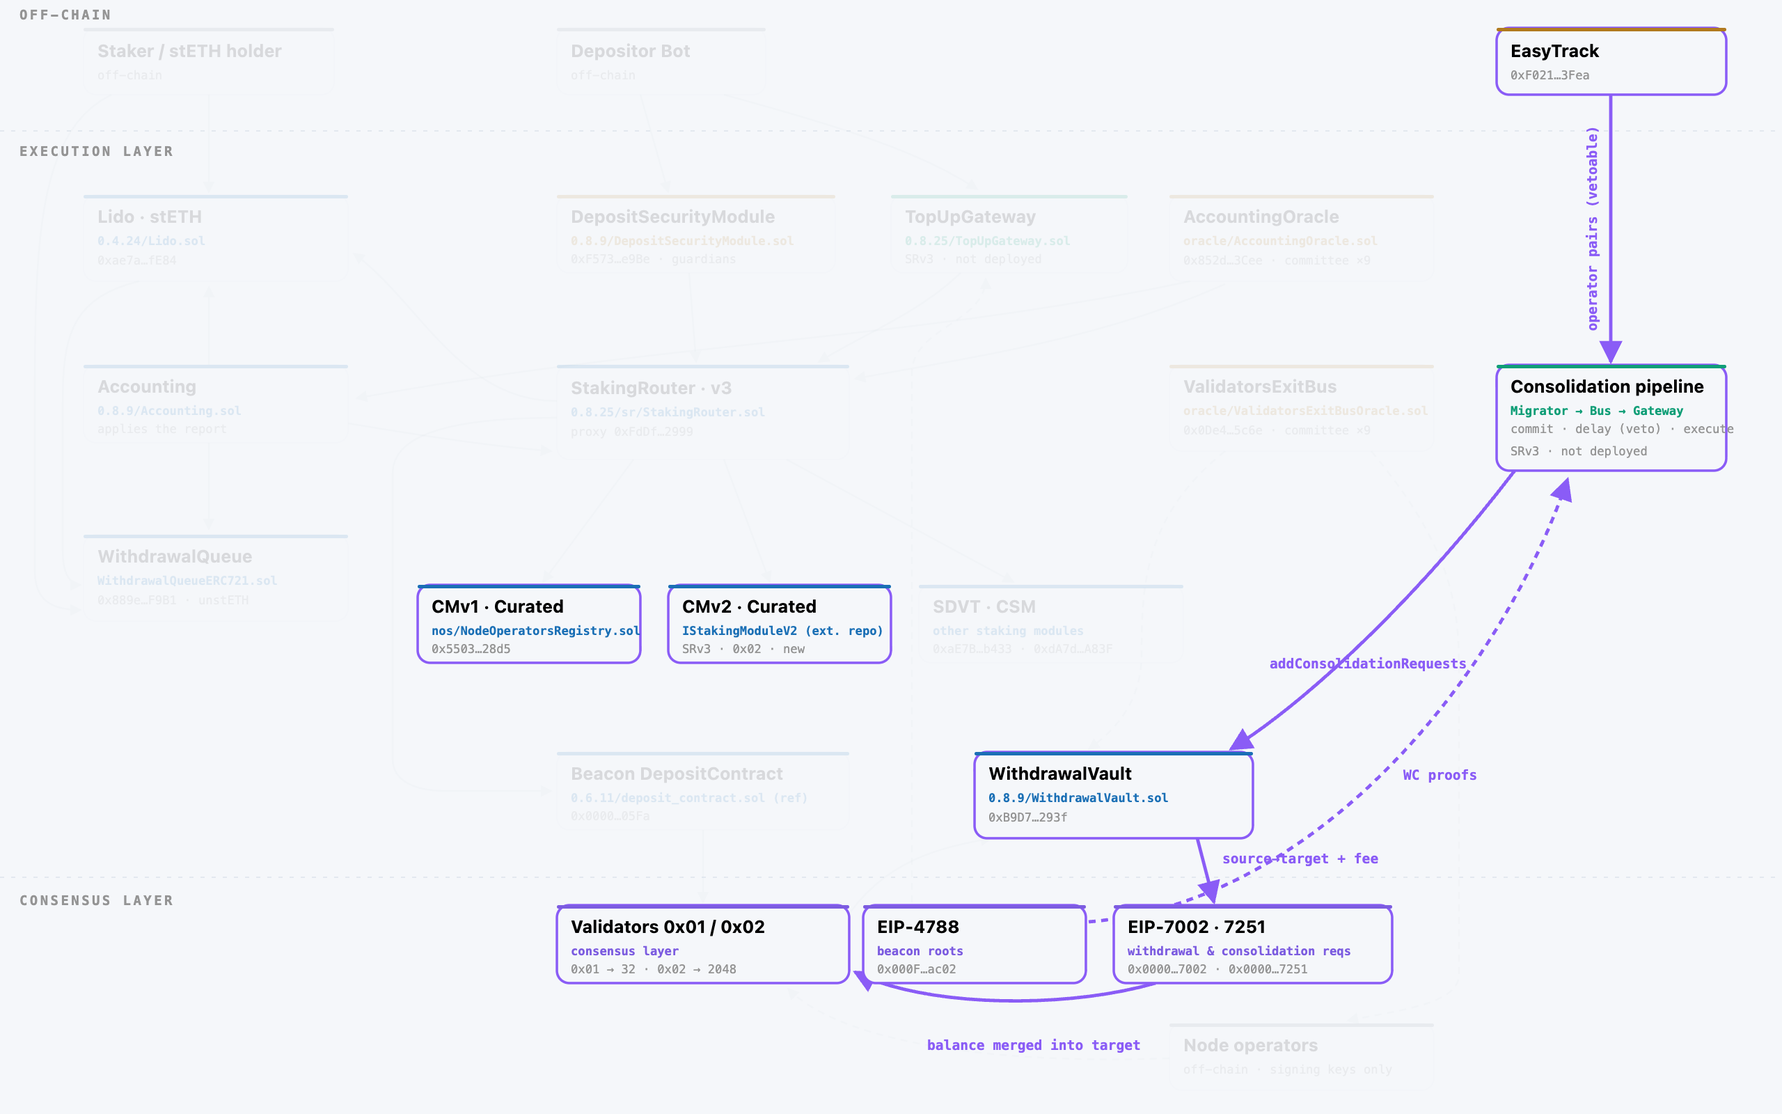
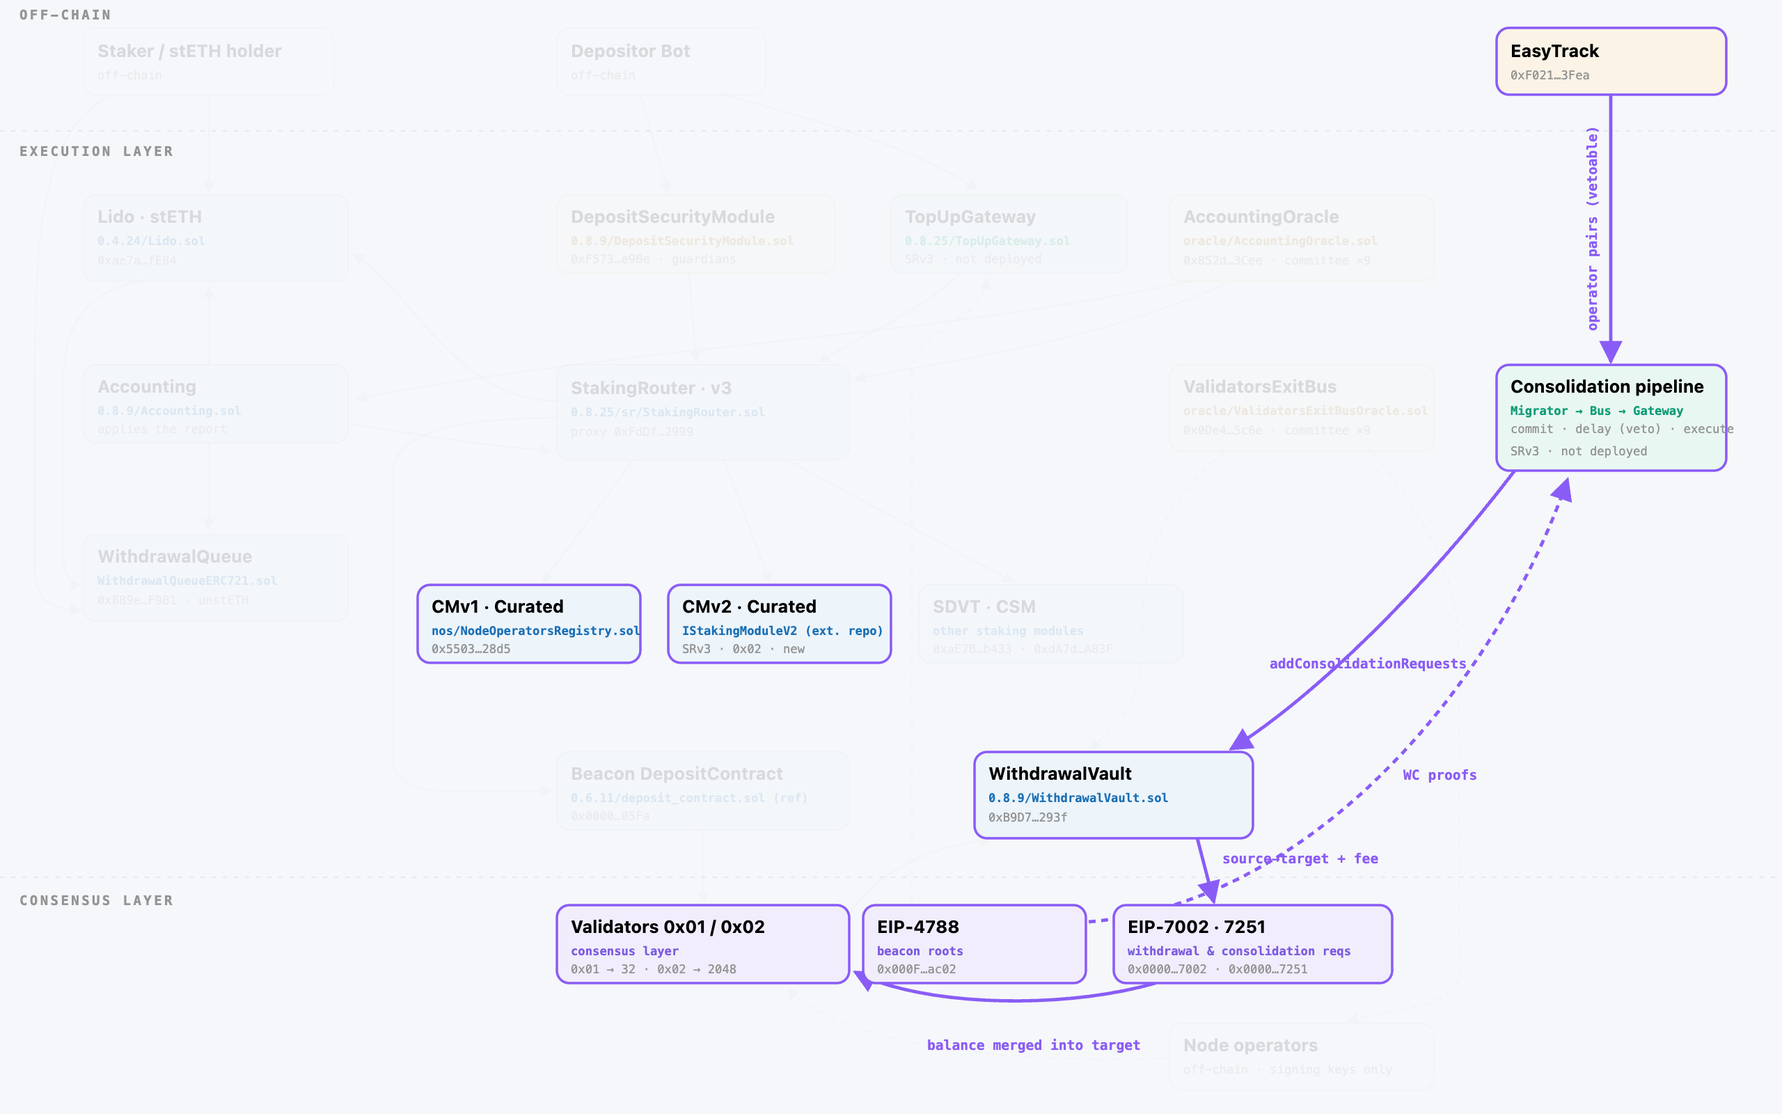
Diagram: Source Serif 4 prose and tinted trust rectangles
Prose (intro, flow captions, card descriptions) set in Source Serif 4 as on
lfglabs.dev; trust type now shown by tinted node/card backgrounds instead of
color bars; exports regenerated

diff --git a/diagram/index.html b/diagram/index.html
@@ -6,6 +6,7 @@
 <link rel="preconnect" href="https://fonts.googleapis.com">
 <link rel="preconnect" href="https://fonts.gstatic.com" crossorigin>
 <link href="https://fonts.googleapis.com/css2?family=Plus+Jakarta+Sans:wght@400;500;600;700;800&display=swap" rel="stylesheet">
+<link href="https://fonts.googleapis.com/css2?family=Source+Serif+4:ital,opsz,wght@0,8..60,400;0,8..60,500;0,8..60,600;1,8..60,400&display=swap" rel="stylesheet">
 <title>Lido Architecture: Components & Flows</title>
 </head>
 <body style="margin:0">
@@ -15,9 +16,14 @@
     --line:#e3e8ef; --line2:#eef1f6; --edge:#c3ccd7;
     --accent:#2dd4bf; --accent-ink:#0d9488;
     --el:#1a6fb5; --cl:#7c5ce0; --com:#b17a1e; --bot:#8b93a1; --proof:#0f9e77;
+    --el-bg:#edf4fa; --el-bd:#c2d8ea; --cl-bg:#f1edfc; --cl-bd:#d6cbf2;
+    --com-bg:#faf3e6; --com-bd:#e6d3ae; --bot-bg:#f1f3f6; --bot-bd:#d5dae1;
+    --proof-bg:#e9f7f2; --proof-bd:#b8e0d2;
     --cf1:#1a75c0; --cf2:#0d9488; --cf3:#67921a; --cf4:#bd7c17; --cf5:#d0523a; --cf6:#8a5cf6; --cf7:#b44487;
     --mono:ui-monospace,'SF Mono',Menlo,Consolas,monospace;
     --sans:'Plus Jakarta Sans',system-ui,-apple-system,'Segoe UI',Roboto,sans-serif;
+    --article:'Source Serif 4',Georgia,'Times New Roman',serif;
+    --article-ink:#1a1a1a;
   }
 
   body{
@@ -32,7 +38,7 @@
           letter-spacing:.14em;text-transform:uppercase;color:var(--accent-ink);
           background:rgba(45,212,191,.12);border-radius:999px;padding:3px 11px;margin-bottom:10px}
   header h1{font-size:clamp(1.5rem,3.4vw,2rem);font-weight:800;letter-spacing:-.03em;color:var(--heading);text-wrap:balance}
-  header p{color:var(--ink);max-width:76ch;margin-top:7px;font-size:.88rem}
+  header p{font-family:var(--article);letter-spacing:normal;color:var(--article-ink);max-width:74ch;margin-top:8px;font-size:.94rem;line-height:1.6}
   header p b{color:var(--heading);font-weight:700}
 
   .legend{display:flex;flex-wrap:wrap;gap:6px;margin-top:12px;font-family:var(--mono);font-size:9.5px}
@@ -56,8 +62,8 @@
   .reset{background:none;border:1.5px dashed var(--line);border-radius:999px;color:var(--soft);
          font:inherit;font-size:.75rem;cursor:pointer;padding:6px 13px}
   .reset:hover{color:var(--heading);border-color:var(--accent)}
-  .fcap{min-height:2.6em;font-size:.78rem;color:var(--soft);margin-bottom:10px;max-width:90ch}
-  .fcap b{font-weight:700}
+  .fcap{font-family:var(--article);letter-spacing:normal;min-height:2.6em;font-size:.84rem;color:var(--ink);margin-bottom:10px;max-width:88ch;line-height:1.55}
+  .fcap b{font-family:var(--sans);font-weight:700;font-size:.92em;letter-spacing:-0.01em}
   @media (prefers-reduced-motion: reduce){ .pill{transition:none} .edge path,.node rect,.node text{transition:none!important} }
 
   /* diagram */
@@ -69,14 +75,17 @@
   .bandlbl{font:700 9.5px var(--mono);letter-spacing:.18em;fill:var(--soft)}
 
   .node rect.box{fill:var(--card);stroke:var(--line);transition:opacity .15s}
-  .node rect.top,.node text{transition:opacity .15s}
+  .node.el rect.box{fill:var(--el-bg);stroke:var(--el-bd)}
+  .node.com rect.box{fill:var(--com-bg);stroke:var(--com-bd)}
+  .node.proof rect.box{fill:var(--proof-bg);stroke:var(--proof-bd)}
+  .node.bot rect.box{fill:var(--bot-bg);stroke:var(--bot-bd)}
+  .node.cl rect.box{fill:var(--cl-bg);stroke:var(--cl-bd)}
+  .node text{transition:opacity .15s}
   .node .nm{font:700 12.5px var(--sans);fill:var(--heading)}
   .node .fl{font:600 8.6px var(--mono)}
   .node .ad{font:500 8.6px var(--mono);fill:var(--soft)}
   .node.el .fl{fill:var(--el)} .node.com .fl{fill:var(--com)} .node.proof .fl{fill:var(--proof)}
   .node.bot .fl{fill:var(--bot)} .node.cl .fl{fill:var(--cl)}
-  .node.el rect.top{fill:var(--el)} .node.com rect.top{fill:var(--com)} .node.proof rect.top{fill:var(--proof)}
-  .node.bot rect.top{fill:var(--bot)} .node.cl rect.top{fill:var(--cl)}
   .node.dim{opacity:.12}
   .node.on rect.box{stroke:var(--hl,var(--line));stroke-width:1.8}
 
@@ -90,16 +99,19 @@
   /* component notes */
   .notes h2{font-size:.98rem;font-weight:700;letter-spacing:-.01em;color:var(--heading);
      padding-bottom:6px;border-bottom:1px solid var(--line);margin:28px 0 10px}
-  .notes h2 b{font-weight:500;color:var(--soft);font-size:.86em}
+  .notes h2 b{font-family:var(--article);font-style:italic;font-weight:400;color:var(--soft);font-size:.9em;letter-spacing:normal}
   .band{display:grid;grid-template-columns:repeat(auto-fill,minmax(230px,1fr));gap:8px}
-  .c{background:var(--card);border:1px solid var(--line);border-left:3px solid var(--tc,var(--line));
+  .c{background:var(--card);border:1px solid var(--line);
      border-radius:10px;padding:10px 12px;display:flex;flex-direction:column;gap:2px}
-  .c.el{--tc:var(--el)} .c.cl{--tc:var(--cl)} .c.com{--tc:var(--com)}
-  .c.bot{--tc:var(--bot)} .c.proof{--tc:var(--proof)}
+  .c.el{--tc:var(--el);background:var(--el-bg);border-color:var(--el-bd)}
+  .c.cl{--tc:var(--cl);background:var(--cl-bg);border-color:var(--cl-bd)}
+  .c.com{--tc:var(--com);background:var(--com-bg);border-color:var(--com-bd)}
+  .c.bot{--tc:var(--bot);background:var(--bot-bg);border-color:var(--bot-bd)}
+  .c.proof{--tc:var(--proof);background:var(--proof-bg);border-color:var(--proof-bd)}
   .c .n{font-weight:700;font-size:.83rem;color:var(--heading);letter-spacing:-.01em}
   .c .f{font-family:var(--mono);font-size:.63rem;color:var(--tc,var(--soft));word-break:break-all;letter-spacing:0}
   .c .a{font-family:var(--mono);font-size:.63rem;color:var(--soft);letter-spacing:0}
-  .c .r{font-size:.72rem;color:var(--ink);margin-top:2px}
+  .c .r{font-family:var(--article);letter-spacing:normal;font-size:.76rem;color:var(--article-ink);margin-top:2px;line-height:1.5}
 
   footer{margin-top:22px;padding-top:12px;border-top:1px solid var(--line);
          font-family:var(--mono);font-size:.67rem;color:var(--soft);line-height:1.9;letter-spacing:0}
@@ -205,54 +217,54 @@
 
   <!-- ================= nodes ================= -->
   <g id="nodes">
-  <g class="node bot" data-flows="f1 f4"><rect class="box" x="60" y="20" width="180" height="48" rx="9"/><rect class="top" x="60" y="20" width="180" height="2.5" rx="1.2"/>
+  <g class="node bot" data-flows="f1 f4"><rect class="box" x="60" y="20" width="180" height="48" rx="9"/>
     <text class="nm" x="70" y="41">Staker / stETH holder</text><text class="ad" x="70" y="57">off-chain</text></g>
-  <g class="node bot" data-flows="f2 f3"><rect class="box" x="400" y="20" width="150" height="48" rx="9"/><rect class="top" x="400" y="20" width="150" height="2.5" rx="1.2"/>
+  <g class="node bot" data-flows="f2 f3"><rect class="box" x="400" y="20" width="150" height="48" rx="9"/>
     <text class="nm" x="410" y="41">Depositor Bot</text><text class="ad" x="410" y="57">off-chain</text></g>
-  <g class="node com" data-flows="f6"><title>0xF0211b7660680B49De1A7E9f25C65660F0a13Fea: vetoable DAO motions</title><rect class="box" x="1075" y="20" width="165" height="48" rx="9"/><rect class="top" x="1075" y="20" width="165" height="2.5" rx="1.2"/>
+  <g class="node com" data-flows="f6"><title>0xF0211b7660680B49De1A7E9f25C65660F0a13Fea: vetoable DAO motions</title><rect class="box" x="1075" y="20" width="165" height="48" rx="9"/>
     <text class="nm" x="1085" y="41">EasyTrack</text><text class="ad" x="1085" y="57">0xF021…3Fea</text></g>
 
-  <g class="node el" data-flows="f1 f2 f3 f4 f7"><title>0xae7ab96520DE3A18E5e111B5EaAb095312D7fE84: stETH token + ETH buffer</title><rect class="box" x="60" y="140" width="190" height="62" rx="9"/><rect class="top" x="60" y="140" width="190" height="2.5" rx="1.2"/>
+  <g class="node el" data-flows="f1 f2 f3 f4 f7"><title>0xae7ab96520DE3A18E5e111B5EaAb095312D7fE84: stETH token + ETH buffer</title><rect class="box" x="60" y="140" width="190" height="62" rx="9"/>
     <text class="nm" x="70" y="160">Lido · stETH</text><text class="fl" x="70" y="176">0.4.24/Lido.sol</text><text class="ad" x="70" y="190">0xae7a…fE84</text></g>
-  <g class="node el" data-flows="f4 f5 f7"><title>Applies the oracle report: drains vaults, finalizes, rebases, mints fees</title><rect class="box" x="60" y="262" width="190" height="56" rx="9"/><rect class="top" x="60" y="262" width="190" height="2.5" rx="1.2"/>
+  <g class="node el" data-flows="f4 f5 f7"><title>Applies the oracle report: drains vaults, finalizes, rebases, mints fees</title><rect class="box" x="60" y="262" width="190" height="56" rx="9"/>
     <text class="nm" x="70" y="282">Accounting</text><text class="fl" x="70" y="298">0.8.9/Accounting.sol</text><text class="ad" x="70" y="311">applies the report</text></g>
-  <g class="node el" data-flows="f4"><title>0x889edC2eDab5f40e902b864aD4d7AdE8E412F9B1: FIFO queue + escrow, unstETH NFT</title><rect class="box" x="60" y="384" width="190" height="62" rx="9"/><rect class="top" x="60" y="384" width="190" height="2.5" rx="1.2"/>
+  <g class="node el" data-flows="f4"><title>0x889edC2eDab5f40e902b864aD4d7AdE8E412F9B1: FIFO queue + escrow, unstETH NFT</title><rect class="box" x="60" y="384" width="190" height="62" rx="9"/>
     <text class="nm" x="70" y="404">WithdrawalQueue</text><text class="fl" x="70" y="420">WithdrawalQueueERC721.sol</text><text class="ad" x="70" y="434">0x889e…F9B1 · unstETH</text></g>
 
-  <g class="node com" data-flows="f2"><title>0xF573E9E3de1f86B085417ab294f56E7920B4e9Be: guardian committee, anti front-run</title><rect class="box" x="400" y="140" width="200" height="56" rx="9"/><rect class="top" x="400" y="140" width="200" height="2.5" rx="1.2"/>
+  <g class="node com" data-flows="f2"><title>0xF573E9E3de1f86B085417ab294f56E7920B4e9Be: guardian committee, anti front-run</title><rect class="box" x="400" y="140" width="200" height="56" rx="9"/>
     <text class="nm" x="410" y="160">DepositSecurityModule</text><text class="fl" x="410" y="176">0.8.9/DepositSecurityModule.sol</text><text class="ad" x="410" y="189">0xF573…e9Be · guardians</text></g>
-  <g class="node proof" data-flows="f3"><title>SRv3, not deployed: verifies 0x02 top-up targets against EIP-4788</title><rect class="box" x="640" y="140" width="170" height="56" rx="9"/><rect class="top" x="640" y="140" width="170" height="2.5" rx="1.2"/>
+  <g class="node proof" data-flows="f3"><title>SRv3, not deployed: verifies 0x02 top-up targets against EIP-4788</title><rect class="box" x="640" y="140" width="170" height="56" rx="9"/>
     <text class="nm" x="650" y="160">TopUpGateway</text><text class="fl" x="650" y="176">0.8.25/TopUpGateway.sol</text><text class="ad" x="650" y="189">SRv3 · not deployed</text></g>
-  <g class="node el" data-flows="f2 f3 f7"><title>proxy 0xFdDf38947aFB03C621C71b06C9C70bce73f12999: allocates stake, pulls ETH, distributes fees</title><rect class="box" x="400" y="262" width="210" height="68" rx="9"/><rect class="top" x="400" y="262" width="210" height="2.5" rx="1.2"/>
+  <g class="node el" data-flows="f2 f3 f7"><title>proxy 0xFdDf38947aFB03C621C71b06C9C70bce73f12999: allocates stake, pulls ETH, distributes fees</title><rect class="box" x="400" y="262" width="210" height="68" rx="9"/>
     <text class="nm" x="410" y="283">StakingRouter · v3</text><text class="fl" x="410" y="299">0.8.25/sr/StakingRouter.sol</text><text class="ad" x="410" y="313">proxy 0xFdDf…2999</text></g>
 
-  <g class="node el" data-flows="f2 f6 f7"><title>0x55032650b14df07b85bF18A3a3eC8E0Af2e028d5: 0x01 keys, consolidation source</title><rect class="box" x="300" y="420" width="160" height="56" rx="9"/><rect class="top" x="300" y="420" width="160" height="2.5" rx="1.2"/>
+  <g class="node el" data-flows="f2 f6 f7"><title>0x55032650b14df07b85bF18A3a3eC8E0Af2e028d5: 0x01 keys, consolidation source</title><rect class="box" x="300" y="420" width="160" height="56" rx="9"/>
     <text class="nm" x="310" y="440">CMv1 · Curated</text><text class="fl" x="310" y="456">nos/NodeOperatorsRegistry.sol</text><text class="ad" x="310" y="469">0x5503…28d5</text></g>
-  <g class="node el" data-flows="f3 f6 f7"><title>IStakingModuleV2 implementation lives outside the core repo; consolidation target</title><rect class="box" x="480" y="420" width="160" height="56" rx="9"/><rect class="top" x="480" y="420" width="160" height="2.5" rx="1.2"/>
+  <g class="node el" data-flows="f3 f6 f7"><title>IStakingModuleV2 implementation lives outside the core repo; consolidation target</title><rect class="box" x="480" y="420" width="160" height="56" rx="9"/>
     <text class="nm" x="490" y="440">CMv2 · Curated</text><text class="fl" x="490" y="456">IStakingModuleV2 (ext. repo)</text><text class="ad" x="490" y="469">SRv3 · 0x02 · new</text></g>
-  <g class="node el" data-flows="f2 f7"><title>SDVT 0xaE7B191A31f627b4eB1d4DaC64eaB9976995b433 (Obol/SSV clusters) · CSM 0xdA7dE2ECdDfccC6c3AF10108Db212ACBBf9EA83F (bonded permissionless)</title><rect class="box" x="660" y="420" width="190" height="56" rx="9"/><rect class="top" x="660" y="420" width="190" height="2.5" rx="1.2"/>
+  <g class="node el" data-flows="f2 f7"><title>SDVT 0xaE7B191A31f627b4eB1d4DaC64eaB9976995b433 (Obol/SSV clusters) · CSM 0xdA7dE2ECdDfccC6c3AF10108Db212ACBBf9EA83F (bonded permissionless)</title><rect class="box" x="660" y="420" width="190" height="56" rx="9"/>
     <text class="nm" x="670" y="440">SDVT · CSM</text><text class="fl" x="670" y="456">other staking modules</text><text class="ad" x="670" y="469">0xaE7B…b433 · 0xdA7d…A83F</text></g>
 
-  <g class="node el" data-flows="f2 f3"><title>0x00000000219ab540356cBB839Cbe05303d7705Fa: one-way; only the first deposit sets WC</title><rect class="box" x="400" y="540" width="210" height="56" rx="9"/><rect class="top" x="400" y="540" width="210" height="2.5" rx="1.2"/>
+  <g class="node el" data-flows="f2 f3"><title>0x00000000219ab540356cBB839Cbe05303d7705Fa: one-way; only the first deposit sets WC</title><rect class="box" x="400" y="540" width="210" height="56" rx="9"/>
     <text class="nm" x="410" y="560">Beacon DepositContract</text><text class="fl" x="410" y="576">0.6.11/deposit_contract.sol (ref)</text><text class="ad" x="410" y="589">0x0000…05Fa</text></g>
-  <g class="node el" data-flows="f5 f6"><title>0xB9D7934878B5FB9610B3fE8A5e441e8fad7E293f: all Lido validator WC point here</title><rect class="box" x="700" y="540" width="200" height="62" rx="9"/><rect class="top" x="700" y="540" width="200" height="2.5" rx="1.2"/>
+  <g class="node el" data-flows="f5 f6"><title>0xB9D7934878B5FB9610B3fE8A5e441e8fad7E293f: all Lido validator WC point here</title><rect class="box" x="700" y="540" width="200" height="62" rx="9"/>
     <text class="nm" x="710" y="560">WithdrawalVault</text><text class="fl" x="710" y="576">0.8.9/WithdrawalVault.sol</text><text class="ad" x="710" y="590">0xB9D7…293f</text></g>
 
-  <g class="node com" data-flows="f4 f5 f7"><title>0x852deD011285fe67063a08005c71a85690503Cee: daily report; SRv3 adds per-module CL balances</title><rect class="box" x="840" y="140" width="190" height="62" rx="9"/><rect class="top" x="840" y="140" width="190" height="2.5" rx="1.2"/>
+  <g class="node com" data-flows="f4 f5 f7"><title>0x852deD011285fe67063a08005c71a85690503Cee: daily report; SRv3 adds per-module CL balances</title><rect class="box" x="840" y="140" width="190" height="62" rx="9"/>
     <text class="nm" x="850" y="160">AccountingOracle</text><text class="fl" x="850" y="176">oracle/AccountingOracle.sol</text><text class="ad" x="850" y="190">0x852d…3Cee · committee ×9</text></g>
-  <g class="node com" data-flows="f5"><title>0x0De4Ea0184c2ad0BacA7183356Aea5B8d5Bf5c6e: exit requests, ETH-denominated bounds</title><rect class="box" x="840" y="262" width="190" height="62" rx="9"/><rect class="top" x="840" y="262" width="190" height="2.5" rx="1.2"/>
+  <g class="node com" data-flows="f5"><title>0x0De4Ea0184c2ad0BacA7183356Aea5B8d5Bf5c6e: exit requests, ETH-denominated bounds</title><rect class="box" x="840" y="262" width="190" height="62" rx="9"/>
     <text class="nm" x="850" y="282">ValidatorsExitBus</text><text class="fl" x="850" y="298">oracle/ValidatorsExitBusOracle.sol</text><text class="ad" x="850" y="312">0x0De4…5c6e · committee ×9</text></g>
-  <g class="node bot" data-flows="f5"><title>Hold signing keys only; principal is out of reach</title><rect class="box" x="840" y="735" width="190" height="48" rx="9"/><rect class="top" x="840" y="735" width="190" height="2.5" rx="1.2"/>
+  <g class="node bot" data-flows="f5"><title>Hold signing keys only; principal is out of reach</title><rect class="box" x="840" y="735" width="190" height="48" rx="9"/>
     <text class="nm" x="850" y="755">Node operators</text><text class="ad" x="850" y="771">off-chain · signing keys only</text></g>
 
-  <g class="node proof" data-flows="f6"><title>SRv3, not deployed. Migrator validates EasyTrack pairs; Bus enforces the delay (removeBatches = guardian veto); Gateway verifies target WC proofs against EIP-4788</title><rect class="box" x="1075" y="262" width="165" height="76" rx="9"/><rect class="top" x="1075" y="262" width="165" height="2.5" rx="1.2"/>
+  <g class="node proof" data-flows="f6"><title>SRv3, not deployed. Migrator validates EasyTrack pairs; Bus enforces the delay (removeBatches = guardian veto); Gateway verifies target WC proofs against EIP-4788</title><rect class="box" x="1075" y="262" width="165" height="76" rx="9"/>
     <text class="nm" x="1085" y="282">Consolidation pipeline</text><text class="fl" x="1085" y="298">Migrator → Bus → Gateway</text><text class="ad" x="1085" y="311">commit · delay (veto) · execute</text><text class="ad" x="1085" y="327">SRv3 · not deployed</text></g>
 
-  <g class="node cl" data-flows="f2 f3 f5 f6"><title>0x01 capped at 32 ETH (excess skimmed); 0x02 compounds to 2048; WC write-once</title><rect class="box" x="400" y="650" width="210" height="56" rx="9"/><rect class="top" x="400" y="650" width="210" height="2.5" rx="1.2"/>
+  <g class="node cl" data-flows="f2 f3 f5 f6"><title>0x01 capped at 32 ETH (excess skimmed); 0x02 compounds to 2048; WC write-once</title><rect class="box" x="400" y="650" width="210" height="56" rx="9"/>
     <text class="nm" x="410" y="670">Validators 0x01 / 0x02</text><text class="fl" x="410" y="686">consensus layer</text><text class="ad" x="410" y="699">0x01 → 32 · 0x02 → 2048</text></g>
-  <g class="node cl" data-flows="f3 f6"><title>0x000F3df6D732807Ef1319fB7B8bB8522d0Beac02: beacon root readable from EL, ~27 h ring</title><rect class="box" x="620" y="650" width="160" height="56" rx="9"/><rect class="top" x="620" y="650" width="160" height="2.5" rx="1.2"/>
+  <g class="node cl" data-flows="f3 f6"><title>0x000F3df6D732807Ef1319fB7B8bB8522d0Beac02: beacon root readable from EL, ~27 h ring</title><rect class="box" x="620" y="650" width="160" height="56" rx="9"/>
     <text class="nm" x="630" y="670">EIP-4788</text><text class="fl" x="630" y="686">beacon roots</text><text class="ad" x="630" y="699">0x000F…ac02</text></g>
-  <g class="node cl" data-flows="f5 f6"><title>EIP-7002 0x00000961Ef480Eb55e80D19ad83579A64c007002 (exits &amp; partial withdrawals) · EIP-7251 0x0000BBdDc7CE488642fb579F8B00f3a590007251 (source→target merge); both triggered from the withdrawal address</title><rect class="box" x="800" y="650" width="200" height="56" rx="9"/><rect class="top" x="800" y="650" width="200" height="2.5" rx="1.2"/>
+  <g class="node cl" data-flows="f5 f6"><title>EIP-7002 0x00000961Ef480Eb55e80D19ad83579A64c007002 (exits &amp; partial withdrawals) · EIP-7251 0x0000BBdDc7CE488642fb579F8B00f3a590007251 (source→target merge); both triggered from the withdrawal address</title><rect class="box" x="800" y="650" width="200" height="56" rx="9"/>
     <text class="nm" x="810" y="670">EIP-7002 · 7251</text><text class="fl" x="810" y="686">withdrawal &amp; consolidation reqs</text><text class="ad" x="810" y="699">0x0000…7002 · 0x0000…7251</text></g>
   </g>
 </svg>
@@ -375,13 +387,14 @@
     '.sep{stroke:var(--line);stroke-dasharray:3 5}',
     '.bandlbl{font:700 9.5px var(--mono);letter-spacing:.18em;fill:var(--soft)}',
     '.node rect.box{fill:var(--card);stroke:var(--line)}',
+    '.node.el rect.box{fill:var(--el-bg);stroke:var(--el-bd)}.node.com rect.box{fill:var(--com-bg);stroke:var(--com-bd)}',
+    '.node.proof rect.box{fill:var(--proof-bg);stroke:var(--proof-bd)}.node.bot rect.box{fill:var(--bot-bg);stroke:var(--bot-bd)}',
+    '.node.cl rect.box{fill:var(--cl-bg);stroke:var(--cl-bd)}',
     '.node .nm{font:700 12.5px "Plus Jakarta Sans","Segoe UI",system-ui,sans-serif;fill:var(--heading)}',
     '.node .fl{font:600 8.6px var(--mono)}',
     '.node .ad{font:500 8.6px var(--mono);fill:var(--soft)}',
     '.node.el .fl{fill:var(--el)}.node.com .fl{fill:var(--com)}.node.proof .fl{fill:var(--proof)}',
     '.node.bot .fl{fill:var(--bot)}.node.cl .fl{fill:var(--cl)}',
-    '.node.el rect.top{fill:var(--el)}.node.com rect.top{fill:var(--com)}.node.proof rect.top{fill:var(--proof)}',
-    '.node.bot rect.top{fill:var(--bot)}.node.cl rect.top{fill:var(--cl)}',
     '.node.dim{opacity:.12}',
     '.node.on rect.box{stroke:var(--hl,var(--line));stroke-width:1.8}',
     '.edge path{fill:none;stroke:var(--edge);stroke-width:1.2}',
@@ -396,7 +409,7 @@
     var src = document.querySelector('.canvas svg');
     var clone = src.cloneNode(true);
     var cs = getComputedStyle(document.documentElement);
-    var names = ['--card','--ink','--heading','--soft','--line','--line2','--edge','--el','--cl','--com','--bot','--proof',
+    var names = ['--card','--ink','--heading','--soft','--line','--line2','--edge','--el','--cl','--com','--bot','--proof','--el-bg','--el-bd','--cl-bg','--cl-bd','--com-bg','--com-bd','--bot-bg','--bot-bd','--proof-bg','--proof-bd',
                  '--cf1','--cf2','--cf3','--cf4','--cf5','--cf6','--cf7','--mono'];
     var vars = names.map(function(n){ return n+':'+cs.getPropertyValue(n).trim(); }).join(';');
     var bg = document.createElementNS('http://www.w3.org/2000/svg','rect');
